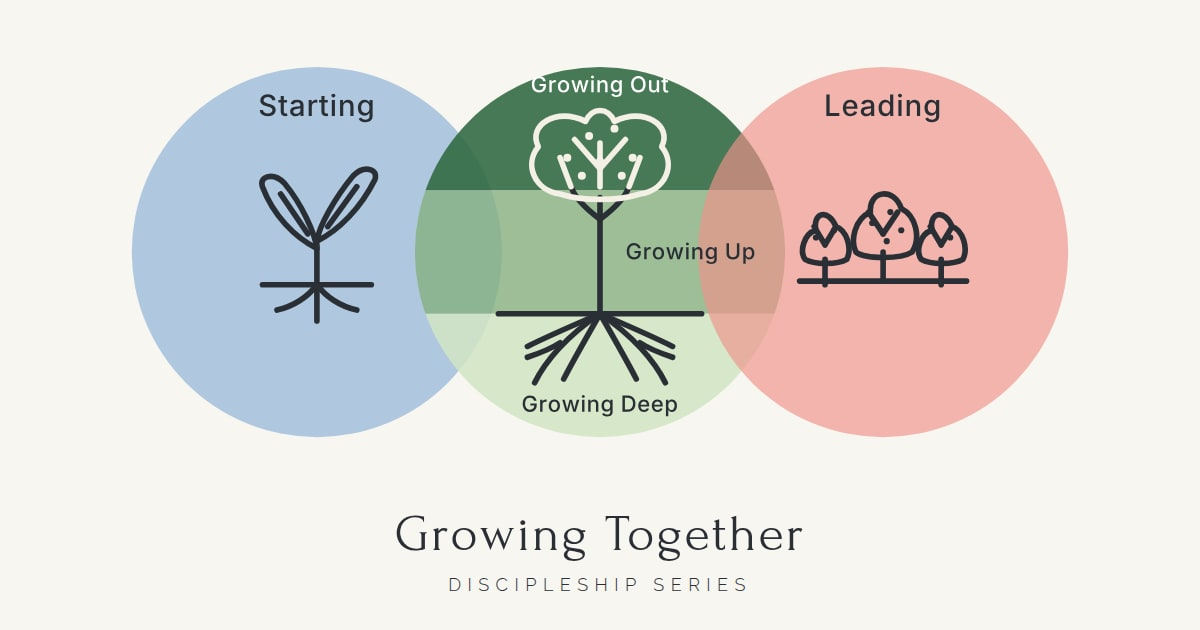
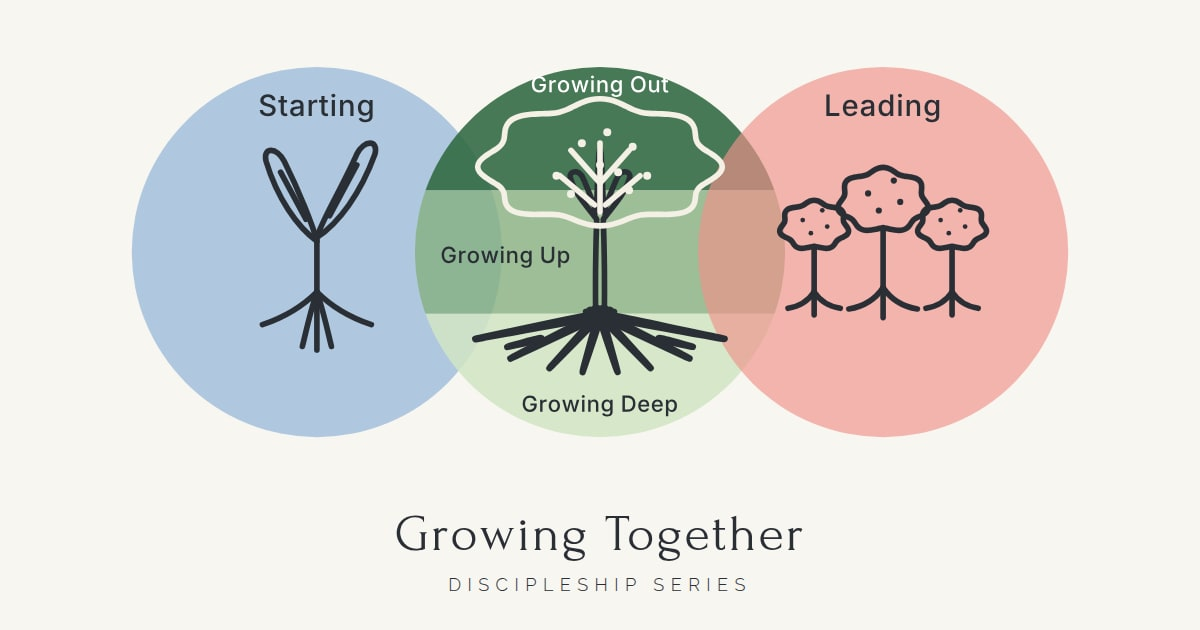
[BRAND-001] Size the tree to the thirds reference, keep thin-line
Make the crown fill the top band and dip into the middle, run a strong trunk through the middle third, and spread roots just below the lower boundary. Crown, trunk, and roots are separate closed paths so a fill can be added later. Keep sprout and orchard proportions from the full reference.

Changed region(s): [[0.37, 0.1508, 0.8325, 0.6032], [0.2158, 0.2111, 0.3392, 0.3921], [0.2158, 0.4222, 0.3083, 0.573]]

diff --git a/discipleship/project-management/logs/2026-11-18-BRAND-001-cursor.md b/discipleship/project-management/logs/2026-11-18-BRAND-001-cursor.md
@@ -15,10 +15,10 @@ Dave approved a new brand direction. The home-page clip-art circles (`images/opt
 Main logo only, plus the sprout-leaf fix on the word-free app icon. Same branch, never force-pushed.
 
 - Middle circle is three even thirds of the diameter (68px each on a 204px circle). Darkest green on top (Growing Out), medium in the middle (Growing Up), lightest at the bottom (Growing Deep), matching Dave's original. Bands clip to the circle and stay translucent so blue and coral overlaps blend softly (no multiply).
-- The bands are the tree. Ground line sits on the lower boundary (y=158). Trunk runs the full middle third. First branches leave near the top of the middle band and flow into a closed scalloped crown in the top third. Fruit sits inside the crown. Roots only in the bottom third, symmetric, with a clear gap for the label.
+- The bands are the tree. A large rounded scalloped crown fills the top band and dips just into the middle. A single strong trunk runs the middle third. Roots spread wide just below the lower boundary. Crown, trunk, and roots are separate closed paths (stroke only for now, so a fill can be added later without a silhouette change yet).
 - White line work and fruit on the dark top band; charcoal everywhere else. White 'Growing Out'; charcoal for the other labels.
 - Words are Inter Medium converted to paths: Starting / Leading near the top of the side circles (single words; the two-line 'in Discipleship' form did not keep good margins). Growing Out / Growing Up / Growing Deep sit in clear space and do not collide with lines.
-- Sprout leaves are two clean pointed almonds with center veins, a short stem, ground, and small roots. Orchard is three scalloped trees with trunks, inner forks, fruit dots, and a ground line kept inside the coral circle. No heavy black circle borders and no silhouettes.
+- Sprout: two pointed almonds with center veins, a stem, and spreading roots, sized like the full thirds reference. Orchard: three scalloped trees, center taller, each with a trunk, roots, and fruit. Thin-line style kept; no filled silhouettes (Dave has not chosen that yet).
 - App icon and favicons stay word-free. The app-icon sprout uses the same pointed veined leaves. Venn fills are translucent, not multiply.
 - og-card (1200x630) regenerated with the v2 logo at 980px plus 'Growing Together Discipleship Series'. Band words stay legible at link-preview size.
 - On-page logo is still `images/brand/gt-logo.svg` at 540px / 92%. Checked at 375, 390, and 1280. Words remain readable at 390px (logo display about 359px), so there is no text-free mobile variant.
@@ -37,11 +37,11 @@ From `discipleship/` after v2:
 - `node scripts/test_lesson_images.js`: 1560 lesson image checks passed.
 - `node scripts/brand_001_browser_check.js`: 77 passed, 0 failed. Zero page console errors at 375, 390, and 1280. Logo, favicon, manifest, and og tags present. Local paths return 200.
 
-Alignment check: debug overlay on the 1600px logo confirms the ground line on y=158 and the closed crown sitting on the upper band boundary at y=90. 4x crop of the middle circle saved for review.
+Alignment check: debug overlay on the 1600px logo confirms the crown filling the top band and dipping just into the middle (upper boundary y=90) and the roots sitting just below the lower boundary (y=158). 4x crop of the middle circle saved for review.
 
-Coordinator review of 2c2f249 before showing Dave: the canopy was a clipped cloud strip, the trunk was a stick Y, the ground hit both overlaps, roots were clipped, orchard trees read as V marks, and sprout leaves were tangled strokes. This pass redraws a closed scalloped crown fully inside the circle with about 6-8% margin, a single tapered trunk with first branches into the crown, a ground line at about 60% of the chord, roots with margin, orchard trees with trunks/fruit, and two clean sprout leaves (same on the app icon). Only band fills are clipped to the circle.
+Coordinator review of 2c2f249 before showing Dave: the canopy was a clipped cloud strip, the trunk was a stick Y, the ground hit both overlaps, roots were clipped, orchard trees read as V marks, and sprout leaves were tangled strokes. A later thirds-reference pass sizes the tree to those two images: large rounded crown, strong trunk, wide roots, sprout and orchard proportions, labels as shown. Thin-line kept. Crown (`tree-crown`), trunk (`tree-trunk`), and roots (`tree-roots`) are separate closed paths. Only band fills are clipped to the circle.
 
-Firebase preview for asset head 461d879: https://growing-together-discipleship--pr305-cursor-brand-001-c2tkzuze.web.app
+Firebase preview for a prior asset head 461d879: https://growing-together-discipleship--pr305-cursor-brand-001-c2tkzuze.web.app
 Preview `gt-logo.svg` hash matches the local file. All brand paths returned 200. Headless Chromium on the preview at 390 and 1280: `img.home-logo` is `images/brand/gt-logo.svg`, rendered, no sideways scroll, zero page errors. GitHub Action CI: 3 checks, all green.
 
 Checks not run and why: physical iPhone/Safari. `build_lesson_images.js` skipped as noted above. Live `og-card.jpg` on growingtogetherdiscipleship.com stays 404 until merge.

diff --git a/discipleship/project-management/TASKS.md b/discipleship/project-management/TASKS.md
@@ -78,7 +78,7 @@ ENG-006 (backup, preview, confirmed restore) and SEC-001 (credential) are DONE a
 
 | Check | ID | Status | Owner | Depends on | Scope and acceptance evidence |
 |---|---|---|---|---|---|
-| [ ] | BRAND-001 | REVIEW | Cursor / cursor/brand-001-logo-icons / 2026-11-18 | Dave approved new brand direction | Coordinator review of 2c2f249: closed scalloped crown inside the circle, single trunk, short ground, roots with margin, orchard trunks/fruit, two clean sprout leaves, same sprout on the app icon. og-card and home screenshots rebuilt. Words kept on 390px. 101-01 unchanged. Checks: npm ci, qa_foundation (export 186, assets 145, images 1560, iframe 32, bible 415), storage 64, brand browser 77. Preview 461d879 200s. Log: logs/2026-11-18-BRAND-001-cursor.md. Stop at REVIEW. |
+| [ ] | BRAND-001 | REVIEW | Cursor / cursor/brand-001-logo-icons / 2026-11-18 | Dave approved new brand direction | Thirds-reference pass: big rounded crown filling the top band and dipping into the middle, strong trunk, wide roots just below the lower boundary. Crown/trunk/roots are separate closed paths (thin-line, not filled). Sprout and orchard sized from the full reference. Labels: Growing Out / Growing Up / Growing Deep as shown. Checks and preview in logs/2026-11-18-BRAND-001-cursor.md. Stop at REVIEW. |
 
 | [x] | WIDGET-101-04-RDR-POLISH | DONE | Codex integration / gemini/widget-101-04-rdr-polish / 2026-11-17 | Dave approved exact 6a4c1e7 and requested merge | PR #262 approved compact Bible polish. Exact widget bytes preserved; all lesson JSON/prose/questions/readings/art/runtime unchanged. Core QA and 248 browser checks pass. Component approval/baseline updated; text stays Silver. Final merge/live evidence on PR #262 and logs/2026-11-17-WIDGET-101-04-RDR-POLISH-codex.md. |
 

diff --git a/discipleship/PROJECT-BRIEF.md b/discipleship/PROJECT-BRIEF.md
@@ -71,7 +71,7 @@ If a lesson title, order, or browse subtitle changes, update `curriculum-toc.csv
 ## Visual System: The Tree Infographic
 
 ### Brand Logo
-Hand-authored SVG at `images/brand/gt-logo.svg`. Three horizontally overlapping translucent circles (blue sprout, banded sage tree, coral orchard) with thin charcoal line icons. The middle circle is split into even thirds that are the tree: darkest green canopy (Growing Out), medium trunk (Growing Up), lightest roots (Growing Deep). The canopy is one closed scalloped crown inside the circle. Labels are Inter Medium converted to paths. Transparent background. The app icon is `images/brand/gt-app-icon.svg` (navy rounded square, triangular Venn, white sprout with two pointed veined leaves, no words). Course lesson logos (101-01 and the Growing openers) stay on their approved artwork until Dave assigns a change.
+Hand-authored SVG at `images/brand/gt-logo.svg`. Three horizontally overlapping translucent circles (blue sprout, banded sage tree, coral orchard) with thin charcoal line icons. The middle circle is split into even thirds that are the tree: darkest green canopy (Growing Out), medium trunk (Growing Up), lightest roots (Growing Deep). The canopy is one closed scalloped crown that fills the top band and dips into the middle. Crown, trunk, and roots are separate closed paths. Labels are Inter Medium converted to paths. Transparent background. The app icon is `images/brand/gt-app-icon.svg` (navy rounded square, triangular Venn, white sprout with two pointed veined leaves, no words). Course lesson logos (101-01 and the Growing openers) stay on their approved artwork until Dave assigns a change.
 
 ### Design Guidelines for Tree Images
 - Warm, hand-drawn feel with earth tones and soft greens and browns
